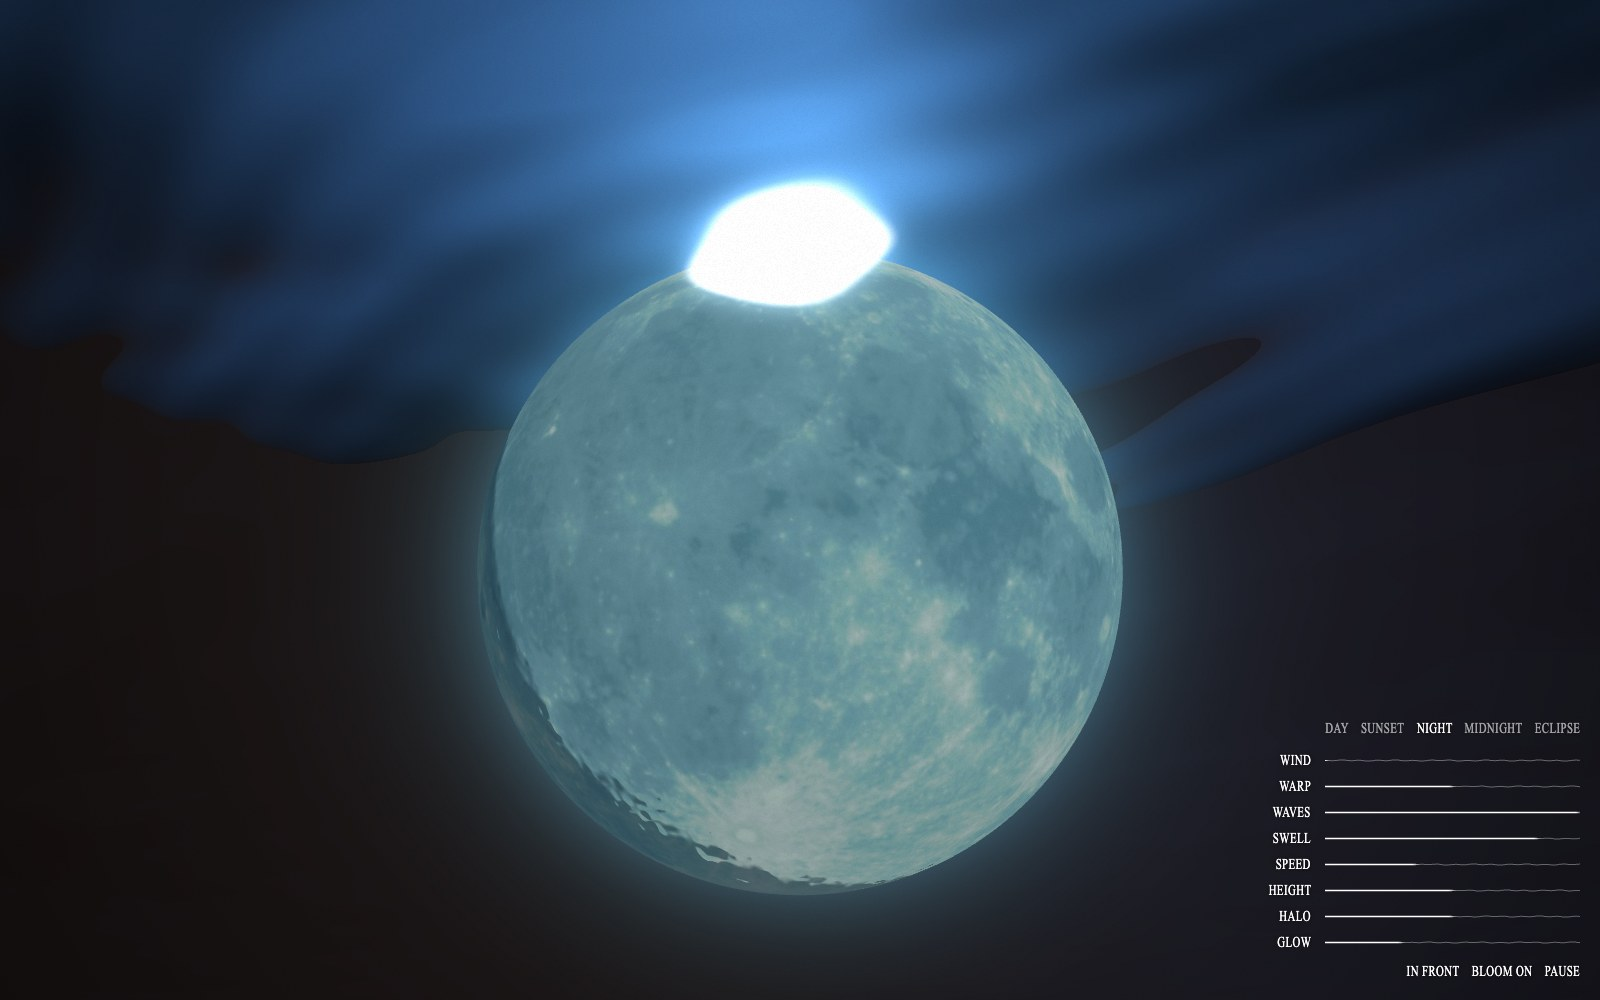
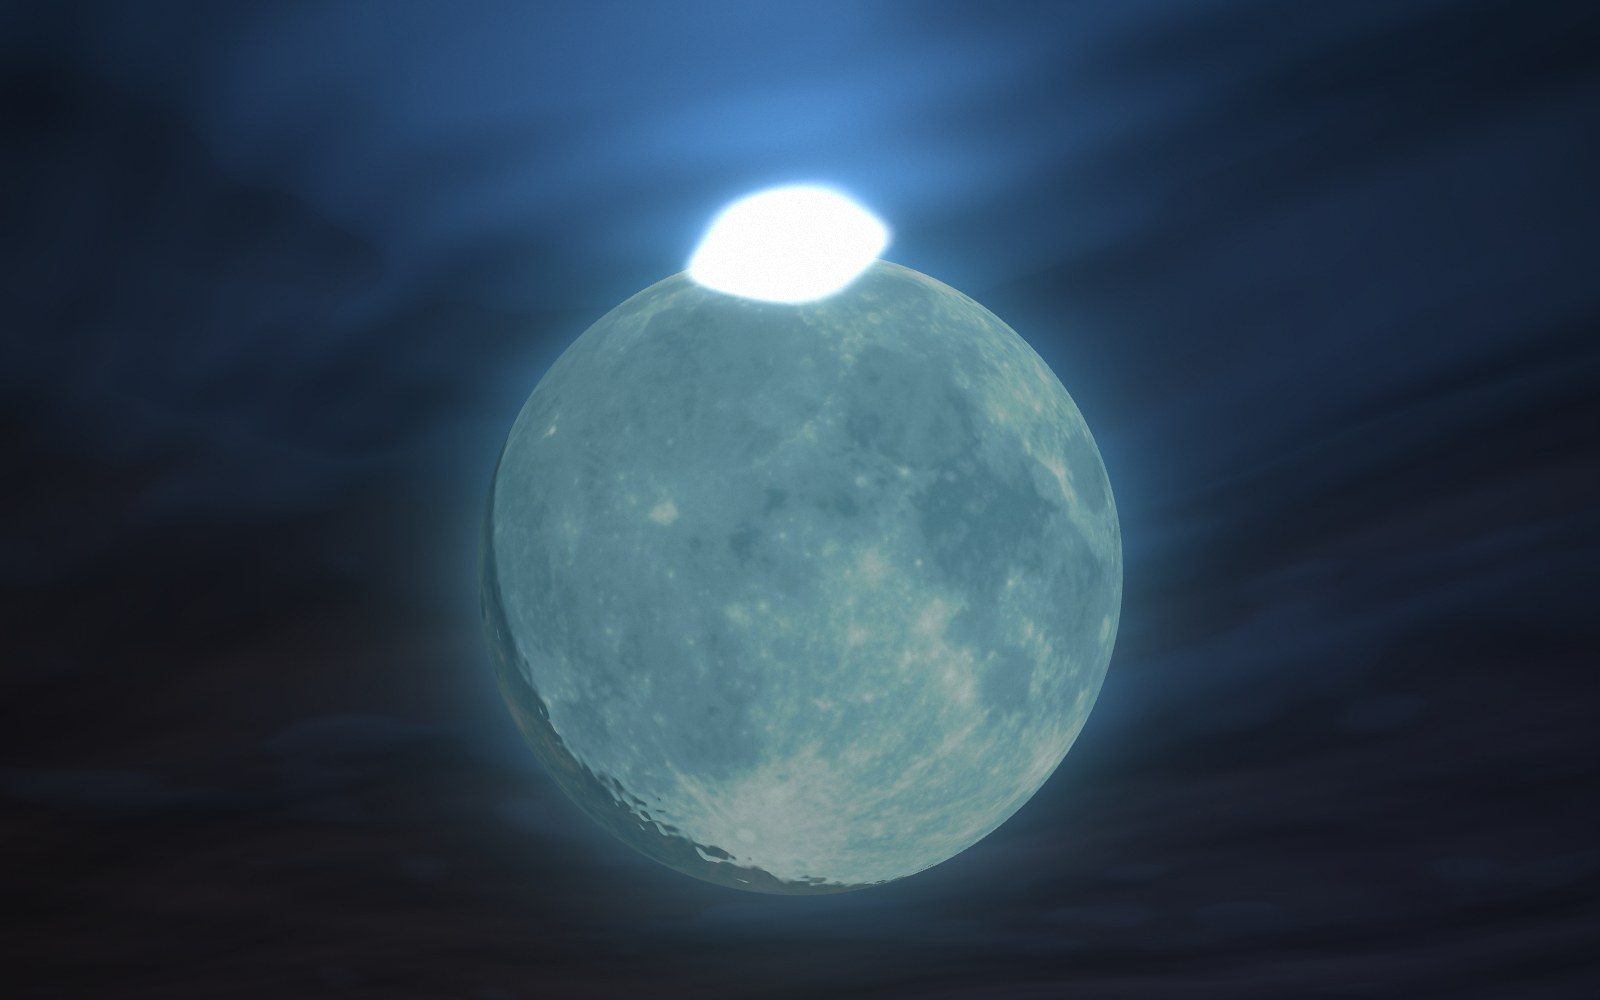
Make the water read as a surface, not a cut-out
Average the light that gets out over sub-pixel ripples (spread widening with
distance) so the window's edge and the patches breaking off it shade off
smoothly; fade everything toward the water colour with distance so the surface
recedes into haze; add a Murk control that scatters a glow around the window's
edge; make the underwater light directional so the mirror shows the waves.
Refresh the README and screenshots.

diff --git a/public/games/flymetothemoon/index.html b/public/games/flymetothemoon/index.html
@@ -67,6 +67,7 @@
   <label for="height"><span class="squeeze">Height</span></label><div class="line"><canvas aria-hidden="true"></canvas><input id="height" type="range" min="-1" max="1" step="0.01" value="0"></div>
   <label for="halo"><span class="squeeze">Halo</span></label><div class="line"><canvas aria-hidden="true"></canvas><input id="halo" type="range" min="0" max="2" step="0.01" value="1"></div>
   <label for="leak"><span class="squeeze">Leak</span></label><div class="line"><canvas aria-hidden="true"></canvas><input id="leak" type="range" min="0" max="1" step="0.01" value="0.5"></div>
+  <label for="murk"><span class="squeeze">Murk</span></label><div class="line"><canvas aria-hidden="true"></canvas><input id="murk" type="range" min="0" max="1.5" step="0.01" value="0.7"></div>
   <label for="glow"><span class="squeeze">Glow</span></label><div class="line"><canvas aria-hidden="true"></canvas><input id="glow" type="range" min="0" max="2" step="0.01" value="0.6"></div>
   <div class="buttons">
     <button id="moonpos" type="button" aria-pressed="false" aria-label="Moon in front of or behind the water"><span class="squeeze">In front</span></button>
@@ -111,8 +112,9 @@
     uMoonR: { value: 100 },                      // the moon's radius there, device pixels (the scene's unit)
     uMoonC: { value: new THREE.Vector2(0, 0) },  // where the moon actually is right now
     uMoonRC: { value: 100 },                     // and its actual radius
-    uAbove: { value: 0 },
-    uLeak: { value: 0.5 },                         // light leaking, scrambled, into the dark water                        // 0: moon in the water, 1: moon in the sky above it
+    uAbove: { value: 0 },                        // 0: moon in the water, 1: moon in the sky above it
+    uLeak: { value: 0.5 },                       // light leaking, scrambled, into the dark water
+    uMurk: { value: 0.7 },                       // how cloudy the water is: light scattered out of the bright window
     uMoonTex: { value: null },                   // the moon rendered off-screen, for viewing through the surface
     uSim: { value: null },                       // simulated height field
     uSwell: { value: 0.8 },
@@ -225,7 +227,7 @@
   // =====================================================================================
   const CAM = { FS: 0.25, ALPHA: 0.648, DEPTH: 3.0, TILE: 20.0 };
   const WATER = `
-      uniform float uHaloGain, uMoonRC, uAbove, uLeak;
+      uniform float uHaloGain, uMoonRC, uAbove, uLeak, uMurk;
       uniform vec2 uMoonC;
       uniform sampler2D uMoonTex;
       vec3 gN = vec3(0.0, 1.0, 0.0); float gT = 0.0;   // surface normal and transmission at the last lookUp
@@ -358,11 +360,22 @@
       // u: horizontal position across the view (0 left, 1 right), for the palette (#191313 left -> #1a1922 right).
       vec3 underwater(vec3 dir, float u){
         vec3 c = mix(uDeepL, uDeepR, smoothstep(0.4, 0.95, u));
-        c += uUpLight * smoothstep(-0.25, 0.6, dir.y);                    // light from above, scattered
+        // the light in the water depends strongly on direction: nearly black straight down, brighter
+        // toward horizontal, brightest looking up. The surface's mirror samples this, so as the
+        // waves tilt it the dark region shimmers with their shape.
+        c *= mix(0.55, 1.1, smoothstep(-0.85, 0.15, dir.y));
+        c += uUpLight * (0.35*smoothstep(-0.7, 0.05, dir.y) + 0.9*smoothstep(0.0, 0.7, dir.y));
         // faint, slow drifts of light in the water, barely moving
         vec2 q = vec2(dir.x/max(dir.z, 0.2)*2.5, dir.y*3.0);
         float n = vnoise(q + vec2(uTime*0.03, -uTime*0.02)) + 0.5*vnoise(q*2.1 - vec2(uTime*0.02, 0.0));
         return c + vec3(0.006, 0.012, 0.018) * (n - 0.75);
+      }
+      // Fraction of light that gets out of the water for a ray meeting the surface at incidence cosine
+      // ci: none past the critical angle, then Fresnel (Schlick, from the air side).
+      float transmit(float ci){
+        float sa2 = 1.777*(1.0 - ci*ci);
+        if (ci <= 0.0 || sa2 >= 1.0) return 0.0;
+        return 1.0 - (0.0204 + 0.9796*pow(1.0 - sqrt(1.0 - sa2), 5.0));
       }
       // Light leaking into the dark water: the ray is bent again through an exaggerated surface
       // (real slopes amplified and jittered fast), so the few rays that still get out pick up
@@ -370,10 +383,12 @@
       vec3 leakLight(vec3 d, vec2 xz, vec2 slope){
         vec2 jit = vec2(vnoise(xz*3.0 + vec2(uTime*0.4, 0.0)), vnoise(xz*3.0 + vec2(5.2, -uTime*0.35))) - 0.5;
         vec3 N = normalize(vec3(-(slope.x*6.0 + jit.x*0.9), 1.0, -(slope.y*6.0 + jit.y*0.9)));
+        // averaged over a wide spread of angles, so the fragments shade in and out rather than cut
+        float ci = dot(d, N), sg = 0.07;
+        float T = (transmit(ci - sg) + 2.0*transmit(ci) + transmit(ci + sg)) * 0.25;
+        if (T < 1e-4) return vec3(0.0);
         vec3 r = refract(d, -N, 1.333);
-        if (dot(r, r) < 1e-6) return vec3(0.0);
-        float cosT = max(dot(r, N), 0.0);
-        float T = 1.0 - (0.0204 + 0.9796*pow(1.0 - cosT, 5.0));
+        if (dot(r, r) < 1e-6) r = normalize(vec3(d.x, 0.02, d.z));   // grazing: just above the horizon
         vec3 sky = mix(uSkyLow, uSkyHigh, smoothstep(0.05, 0.9, clamp(r.y, 0.0, 1.0)));
         float c = dot(r, SKY_MOON);
         sky += uGlowA*exp((c - 1.0)/0.03) + uGlowB*exp((c - 1.0)/0.006);
@@ -387,12 +402,27 @@
         vec2 j2 = vec2(vnoise(xz*9.0 + vec2(-uTime*0.7, 1.3)), vnoise(xz*9.0 + vec2(2.7, uTime*0.6))) - 0.5;
         return (slope*6.0 + j1*0.9 + j2*0.6) * 0.12;
       }
+      // Murk: particles in the water scatter light out of the bright window toward us. It peaks right
+      // at the window's edge (where the ray meets the surface at the critical angle, cos = 0.661),
+      // fades gently outward into the dark water and quickly inward, so the edge softens into a glow
+      // instead of a cut-out; a lighter haze also veils the window itself. ci is the cosine of the
+      // ray's angle to the (wave-tilted) surface normal, so the glow follows the wavy edge.
+      vec3 murkColour(){ return mix(uSkyLow, uSkyHigh, 0.35) + uGlowA*0.35; }
+      float murkAmount(float ci){
+        if (ci < 0.661) return uMurk * 0.55 * exp(-(0.661 - ci)/0.18);          // outside: fading into the dark
+        return uMurk * max(0.55 * exp(-(ci - 0.661)/0.05), 0.18);               // inside: quickly down to a light veil
+      }
+      // Distance: everything seen through the water fades toward the water's own colour the further
+      // the light has to travel, so the surface recedes into haze toward the horizon instead of
+      // standing like a flat ceiling. The first stretch above the camera stays clear.
+      float hazeAmount(float dist){ return 1.0 - exp(-max(dist - 2.5, 0.0) * (0.03 + 0.07*uMurk)); }
+      vec3 hazeColour(vec3 d, float u){ return underwater(normalize(vec3(d.x, 0.03, d.z)), u) + murkColour()*0.12*uMurk; }
       vec4 lookUp(vec2 s){
         float u = 0.506 + s.x*0.2375;                      // horizontal position across the view, for the palette
         vec3 d = viewRay(s);
         gT = 0.0; gLeakW = 0.0;
         if (d.y < 0.03) {                                  // looking sideways: just water...
-          vec3 w = underwater(d, u);
+          vec3 w = hazeColour(d, u);                      // (the surface this way is so far off it's lost in the haze)
           if (uLeak > 0.001) {
             // ...with the leak carrying on faintly into the depths, as if seen far off and fading
             float below = 0.03 - d.y;
@@ -408,26 +438,37 @@
         vec3 sl = surfaceSlope(xz, dist);
         vec3 N = normalize(vec3(-sl.x, 1.0, -sl.y));
         gN = N;
-        vec3 r = refract(d, -N, 1.333);
         vec3 deepR = underwater(reflect(d, -N), u);         // the surface's mirror of the water below
-        if (dot(r, r) < 1e-6) {                            // total internal reflection, plus the leak
-          gLeakOff = leakScramble(xz, sl.xy); gLeakW = 0.6*uLeak;
-          return vec4(deepR + leakLight(d, xz, sl.xy)*0.45*uLeak, 0.0);
+        // How much light gets out through the surface. A pixel covers many ripples too small for the
+        // simulation, each tilted a little differently, so average the transmission over a spread of
+        // incidence angles that widens with distance. The window's edge and the bright patches that
+        // break off it then shade off smoothly instead of switching on and off like a cut-out.
+        float ci = dot(d, N);
+        float sg = 0.03 + 0.012*dist;
+        float Te = (transmit(ci - 2.0*sg) + 4.0*transmit(ci - sg) + 6.0*transmit(ci)
+                  + 4.0*transmit(ci + sg) + transmit(ci + 2.0*sg)) / 16.0;
+        vec3 r = refract(d, -N, 1.333);
+        vec3 sky = uSkyLow;                                // light from just above the horizon, at grazing exit
+        float disc = 0.0;
+        if (dot(r, r) > 1e-6) {
+          // night sky through the surface: #122238 near the horizon to #295075 high up
+          float el = clamp(r.y, 0.0, 1.0);
+          sky = mix(uSkyLow, uSkyHigh, smoothstep(0.05, 0.9, el));
+          float c = dot(r, SKY_MOON);
+          sky += uGlowA * exp((c - 1.0)/0.03) + uGlowB * exp((c - 1.0)/0.006);
+          disc = smoothstep(MOON_COS - 0.0012, MOON_COS + 0.0012, c);
         }
-        float cosT = max(dot(r, N), 0.0);
-        float F = 0.0204 + 0.9796*pow(1.0 - cosT, 5.0);    // Fresnel (Schlick, from the air side)
-        float T = 1.0 - F;
-        gT = T;
-        // night sky through the surface: #122238 near the horizon to #295075 high up
-        float el = clamp(r.y, 0.0, 1.0);
-        vec3 sky = mix(uSkyLow, uSkyHigh, smoothstep(0.05, 0.9, el));
-        float c = dot(r, SKY_MOON);
-        sky += uGlowA * exp((c - 1.0)/0.03) + uGlowB * exp((c - 1.0)/0.006);
-        float disc = smoothstep(MOON_COS - 0.0012, MOON_COS + 0.0012, c);
-        vec3 col = T*sky + F*deepR;
+        gT = Te;
+        float dark = (1.0 - Te)*(1.0 - Te);                // where it's mostly mirror: the leak
+        gLeakOff = leakScramble(xz, sl.xy); gLeakW = 0.6*uLeak*dark;
+        vec3 col = Te*sky + (1.0 - Te)*deepR + leakLight(d, xz, sl.xy)*0.45*uLeak*dark;
         // crests and troughs of the broad waves focus and spread the light: long bands that move with them
         col *= 1.0 - clamp(sl.z*0.9, -0.3, 0.4);
-        return vec4(col, T*disc);
+        col = mix(col, murkColour(), murkAmount(ci));      // the murk: fills the edge, lightly veils the window
+        float hz = hazeAmount(dist);
+        col = mix(col, hazeColour(d, u), hz);
+        gT *= 1.0 - hz;
+        return vec4(col, Te*disc*(1.0 - hz));
       }
   `;
 
@@ -726,6 +767,7 @@
   document.getElementById('swell').addEventListener('input', e => uniforms.uSwell.value = parseFloat(e.target.value));
   document.getElementById('speed').addEventListener('input', e => waveSpeed = parseFloat(e.target.value));
   document.getElementById('height').addEventListener('input', e => moonHeight = parseFloat(e.target.value));
+  document.getElementById('murk').addEventListener('input', e => uniforms.uMurk.value = parseFloat(e.target.value));
   document.getElementById('leak').addEventListener('input', e => uniforms.uLeak.value = parseFloat(e.target.value));
   document.getElementById('halo').addEventListener('input', e => uniforms.uHaloGain.value = parseFloat(e.target.value));
   document.getElementById('glow').addEventListener('input', e => glowU.value = parseFloat(e.target.value));
@@ -964,7 +1006,7 @@
 
   // Settings from the address, e.g. ?sky=sunset&waves=1.2&swell=1.2&speed=0.3&bloom=0&turn=90&ui=0
   const q = new URLSearchParams(location.search);
-  for (const [key, id] of [['wind','wind'], ['warp','warp'], ['waves','chop'], ['swell','swell'], ['speed','speed'], ['height','height'], ['halo','halo'], ['leak','leak'], ['glow','glow']]) {
+  for (const [key, id] of [['wind','wind'], ['warp','warp'], ['waves','chop'], ['swell','swell'], ['speed','speed'], ['height','height'], ['halo','halo'], ['leak','leak'], ['murk','murk'], ['glow','glow']]) {
     if (q.has(key)) { const el = document.getElementById(id); el.value = q.get(key); el.dispatchEvent(new Event('input')); }
   }
   if (q.has('sky')) {

diff --git a/README.md b/README.md
@@ -24,9 +24,19 @@ The surface is a real simulation, not a painted texture:
 
 ### Looking up through it
 
-Each pixel casts a ray up from an underwater camera, three units deep and tilted 37° up. The ray is bent out through the moving surface with Snell's law (n = 1.333) and weighted by Fresnel reflection. Past the critical angle it reflects back down into the dark water instead. So the edge of the bright window ripples and breaks up, the window dims toward its edge, and the moon's image breaks apart and glints, all from the optics rather than drawn shapes.
+Each pixel casts a ray up from an underwater camera, three units deep and tilted 37° up. The ray is bent out through the moving surface with Snell's law (n = 1.333) and weighted by Fresnel reflection. Past the critical angle (48.6° from straight up) it reflects back down into the dark water instead. So the edge of the bright window ripples and breaks up, the window dims toward its edge, and the moon's image breaks apart and glints, all from the optics rather than drawn shapes.
 
-The dark water below and the surface's mirror of it share one colour field, warm brown-black on the left and cooler on the right, with a faint, slow drift of light, so the whole frame reads as water.
+Three things keep that from looking like a bright hole cut in a flat dark ceiling:
+
+- **Ripples too small to simulate.** Each pixel covers many tiny ripples, each tilted a little differently, so the light that gets out is averaged over a spread of angles, and the spread widens with distance. The window's edge, and the bright patches that break off it as waves tilt the surface, shade off smoothly instead of switching on and off.
+- **Distance.** Light fades toward the water's own colour the further it travels through it. The surface near overhead stays clear, and toward the horizon it recedes into haze until it meets the open water, so it reads as a sheet stretching away rather than a flat wall.
+- **Murk.** Particles in the water scatter light from the window toward you. The glow is strongest right at the window's edge and fades out into the dark water, with a lighter veil over the window itself.
+
+The dark water below and the surface's mirror of it share one colour field, warm brown-black on the left and cooler on the right, with a faint, slow drift of light, so the whole frame reads as water. That light depends on direction, nearly black straight down and brighter toward the surface, so as the waves tilt the mirror it shows their shape.
+
+![Murk at its maximum](docs/screenshots/22-murk.jpg)
+
+![No murk: clear water](docs/screenshots/23-clear.jpg)
 
 ![Broad waves alone, rolling across the surface](docs/screenshots/04-broad-waves.jpg)
 
@@ -115,6 +125,7 @@ The controls sit in the lower right: the sky presets along the top, then plain w
 | Height | Raises or lowers the moon, in the water or in the sky | −1 – 1 | 0 |
 | Halo | Strength of the glow around the big moon (on top of what the sky sets) | 0 – 2 | 1 |
 | Leak | How much scrambled light, and with the moon Behind, the moon itself, leaks into the dark water | 0 – 1 | 0.5 |
+| Murk | How cloudy the water is: the glow around the window's edge and how quickly the distance fades | 0 – 1.5 | 0.7 |
 | Glow | Strength of the bloom | 0 – 2 | 0.6 |
 | In front / Behind | Moon in the water, or up in the sky behind the surface | | In front |
 | Bloom on/off | Turns the bloom off entirely | | on |
@@ -136,6 +147,7 @@ Every control can be set from the address, which is how the screenshots here wer
 ?height=1                         raise the moon (−1 lowers it)
 ?halo=0                           no glow around the moon
 ?leak=0                           no light leaking into the dark water
+?murk=0                           clear water (1.5 is very cloudy)
 ?bloom=0                          bloom off
 ?turn=140                         turn the moon 140° to start
 ?ui=0                             hide the controls
